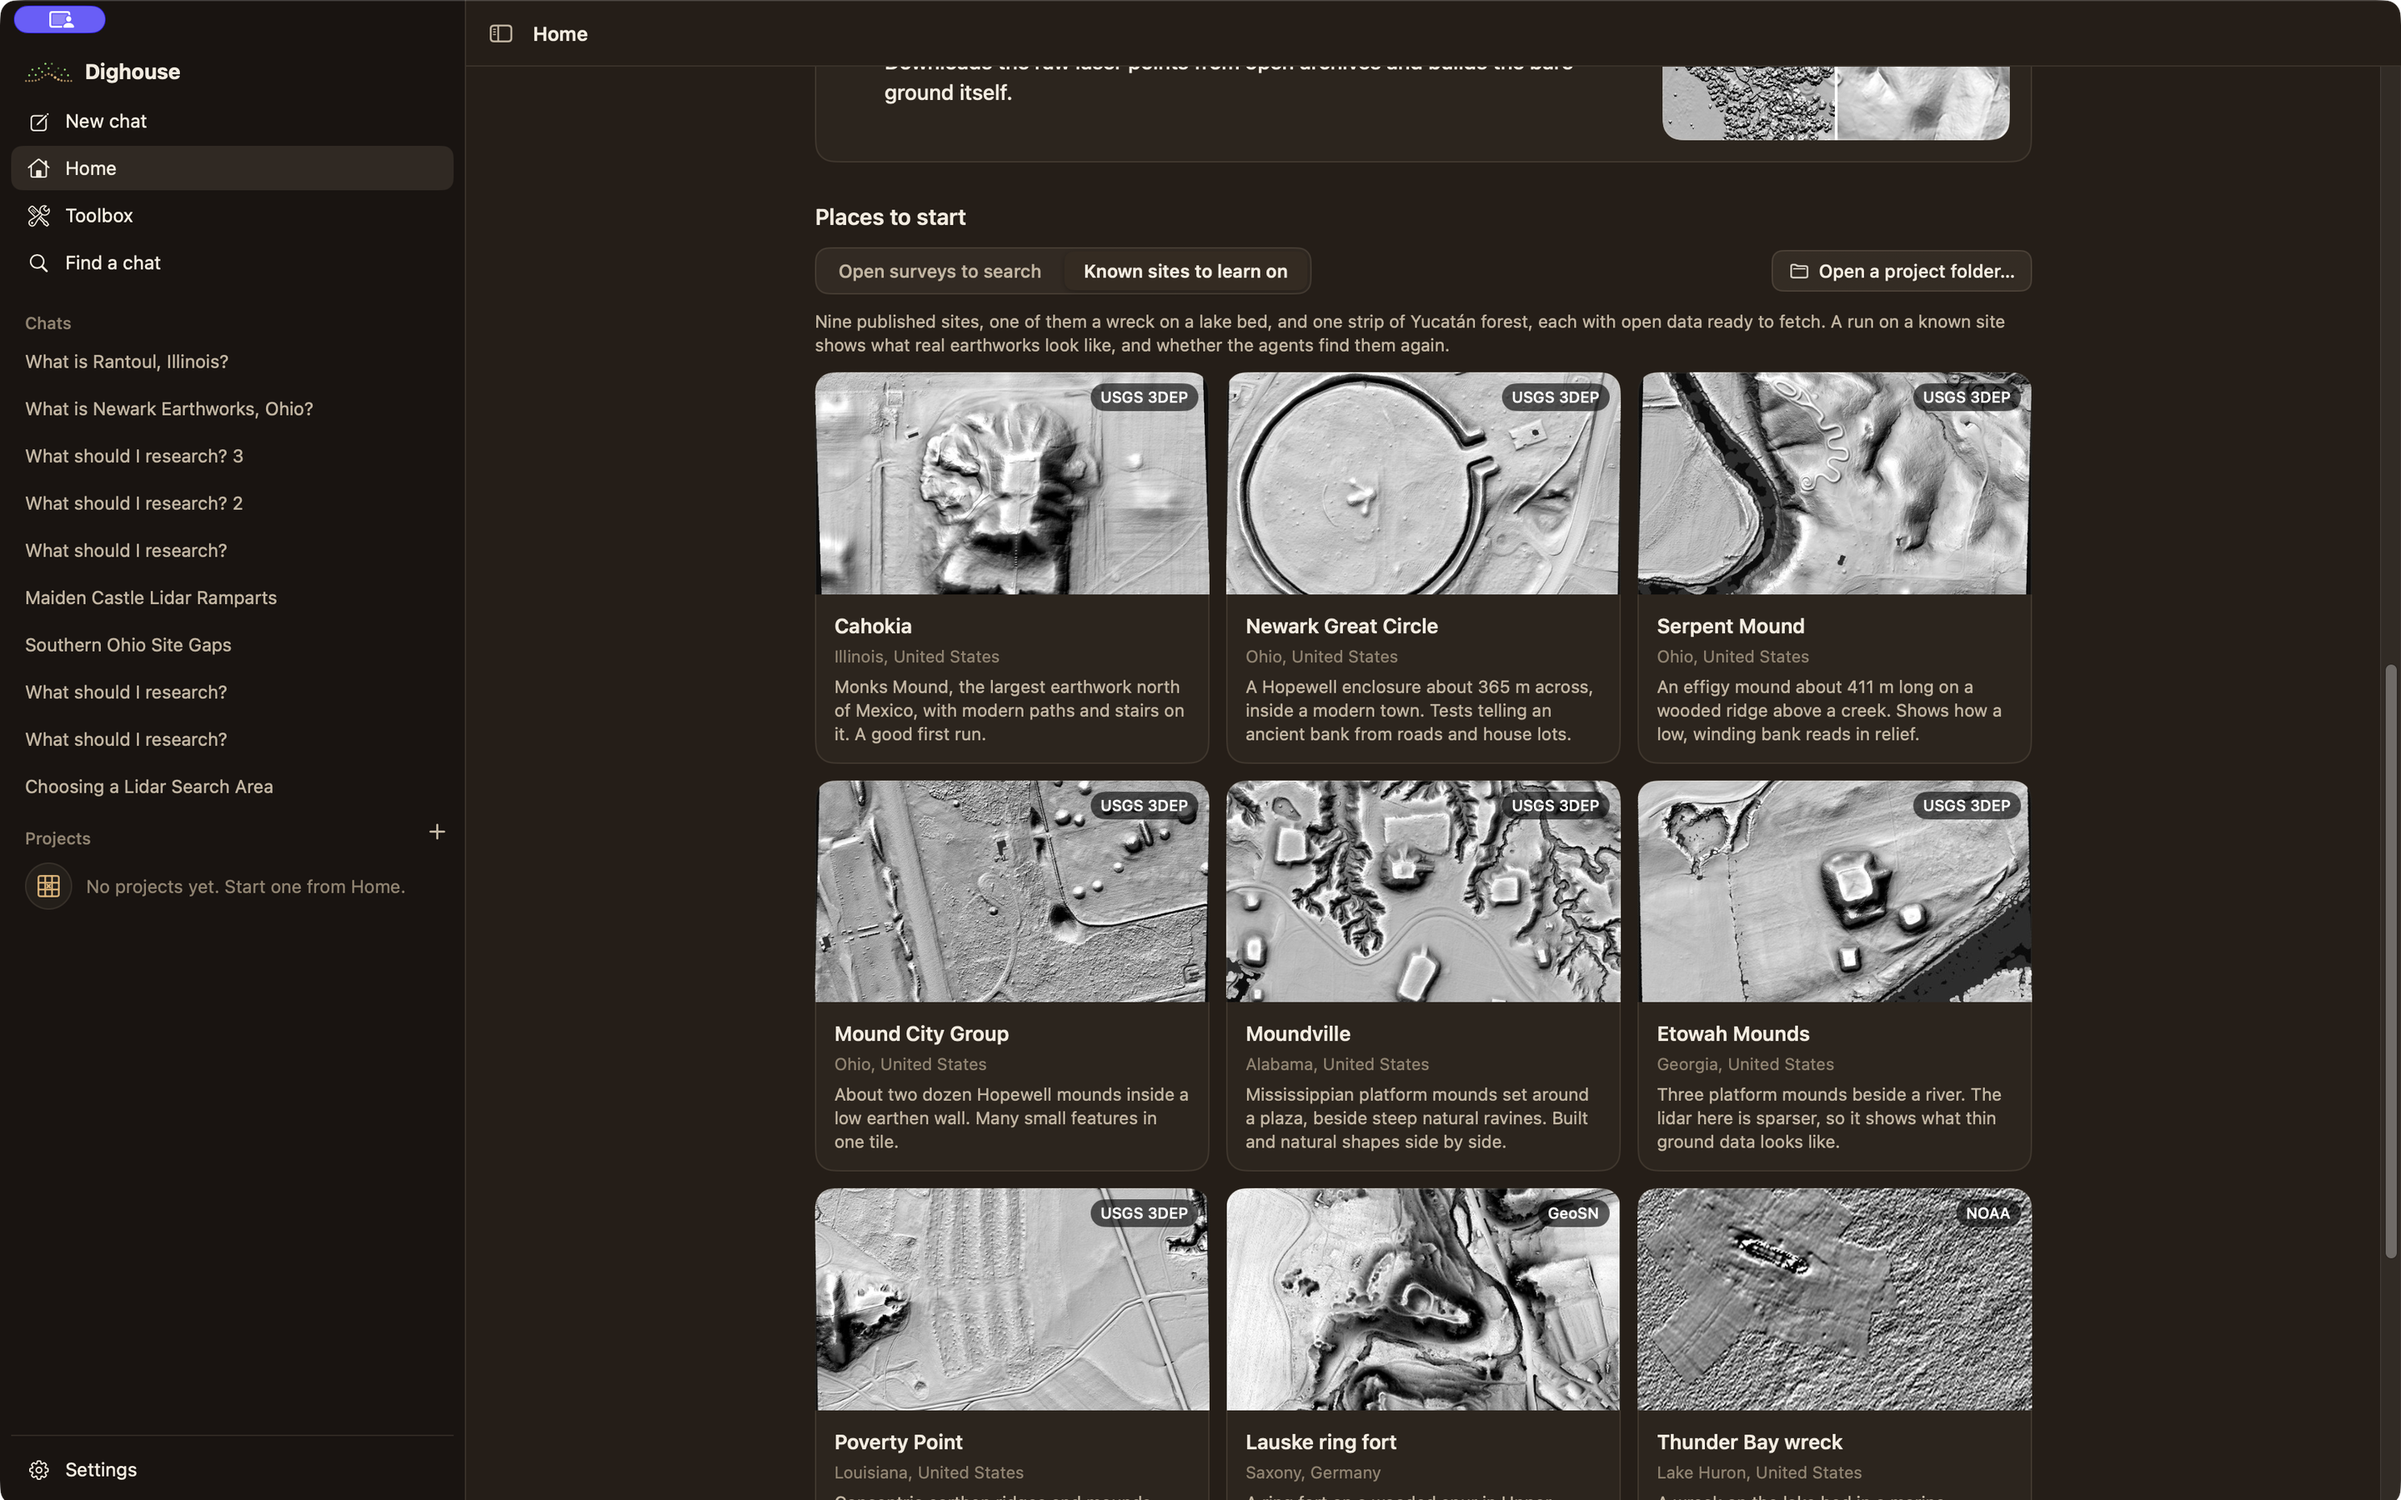
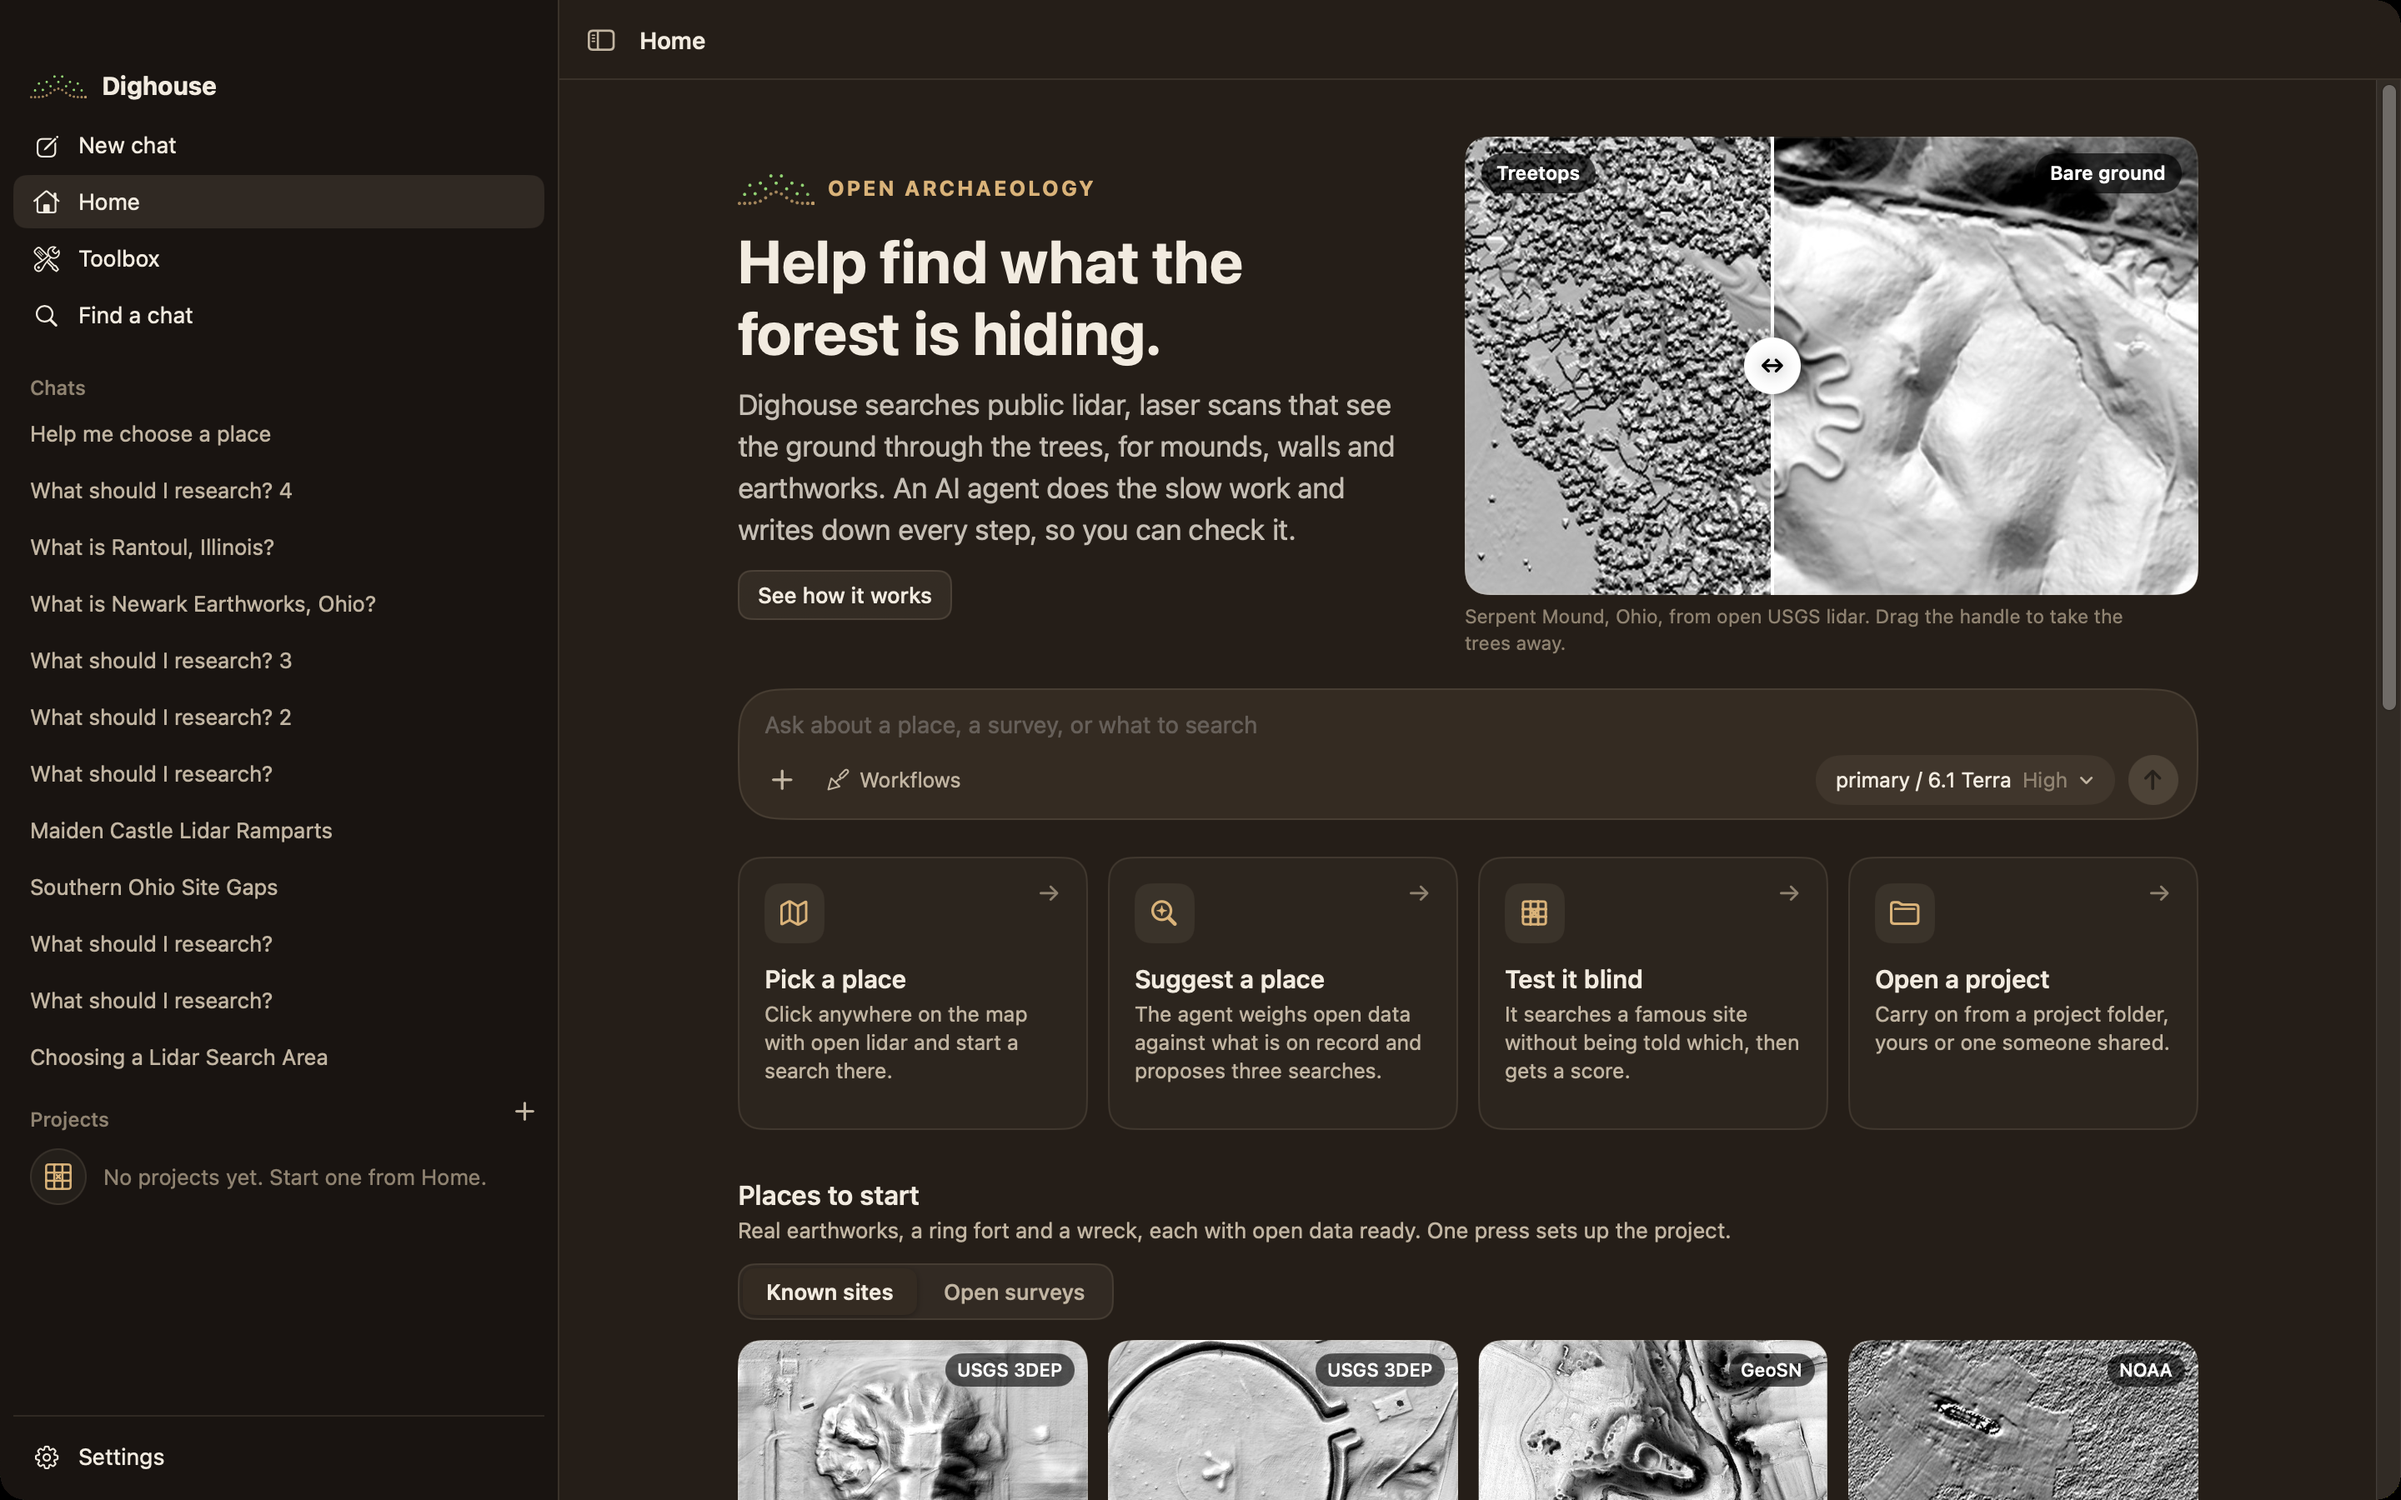
Retake the Home and New project README pictures; New project opens on the US and Europe together (#74)

diff --git a/app/Sources/Dighouse/NewProjectView.swift b/app/Sources/Dighouse/NewProjectView.swift
@@ -60,14 +60,22 @@ struct NewProjectView: View {
             _span = State(initialValue: look[2])
         } else {
             _size = State(initialValue: 0.6)
-            _camera = State(initialValue: Self.region(lat: 25, lon: -40, span: 110))
-            _span = State(initialValue: 110)
+            // Wide enough to show the United States and Europe together, even in a narrow window.
+            _camera = State(initialValue: Self.world)
+            _span = State(initialValue: 100)
         }
     }
 
     /// Zoomed out past this, a click zooms in on the spot; closer in, a click places the search area.
     private static let wide = 1.5
     private var zoomedOut: Bool { span > Self.wide }
+
+    /// From the western United States to eastern Europe, fitted to the map's width: where most of the open lidar is.
+    private static let world: MapCameraPosition = {
+        let a = MKMapPoint(CLLocationCoordinate2D(latitude: 62, longitude: -128))
+        let b = MKMapPoint(CLLocationCoordinate2D(latitude: 12, longitude: 32))
+        return .rect(MKMapRect(x: min(a.x, b.x), y: min(a.y, b.y), width: abs(b.x - a.x), height: abs(b.y - a.y)))
+    }()
 
     private static func region(lat: Double, lon: Double, span: Double) -> MapCameraPosition {
         .region(MKCoordinateRegion(center: CLLocationCoordinate2D(latitude: lat, longitude: lon),
@@ -341,7 +349,7 @@ struct NewProjectView: View {
                     Text("No open data Dighouse reads covers this spot. Try one of the shaded areas, or add your own ground model to a project later.")
                         .font(.system(size: 12.5 * Theme.scale)).foregroundStyle(Theme.amber).fixedSize(horizontal: false, vertical: true)
                     Button("Show where there is data") {
-                        withAnimation(.easeInOut(duration: 0.6)) { camera = Self.region(lat: 35, lon: -30, span: 100) }
+                        withAnimation(.easeInOut(duration: 0.6)) { camera = Self.world }
                         span = 100
                     }
                     .buttonStyle(SecondaryButton())

diff --git a/README.md b/README.md
@@ -122,8 +122,8 @@ Take the stages one at a time, or press **Find and report back** and the agent c
 
 <table>
   <tr>
-    <td width="50%"><img src="docs/images/home.png" alt="Home, Places to start: known sites to learn on, from Cahokia and Newark in the United States to the Lauske ring fort in Saxony and a Thunder Bay wreck from NOAA sonar"><br><sub><b>Home.</b> Places to start, each ready to fetch: mounds and enclosures in the United States, a ring fort in Saxony and a wreck on the bed of Lake Huron.</sub></td>
-    <td width="50%"><img src="docs/images/new-project.png" alt="New project at Mound City Group: name, question, a search area drawn on the map, and the open lidar that covers it"><br><sub><b>New project.</b> Place the area on the map and see which open lidar covers it before you start.</sub></td>
+    <td width="50%"><img src="docs/images/home.png" alt="Home: the headline beside a slider that takes the trees off Serpent Mound, the message box, four ways in (Pick a place, Suggest a place, Test it blind, Open a project) and the start of Places to start"><br><sub><b>Home.</b> Four ways in, and known sites ready to fetch right below them.</sub></td>
+    <td width="50%"><img src="docs/images/new-project.png" alt="New project on a world map shaded where open lidar reaches: the United States, Canada, Europe, and dots for surveys flown for archaeology, with a legend"><br><sub><b>New project.</b> The shaded areas have open lidar. Click to zoom in, click again to place the area, and see which surveys cover it.</sub></td>
   </tr>
   <tr>
     <td width="50%"><img src="docs/images/maiden-castle.png" alt="Maiden Castle in England from Environment Agency lidar: the project overview with what happens next beside the tiled map of the ramparts and five finds"><br><sub><b>A project.</b> Maiden Castle from England's 1 m ground model. The card at the top says what the agent does next, why, and what follows.</sub></td>

diff --git a/docs/HANDOFF.md b/docs/HANDOFF.md
@@ -57,6 +57,8 @@ Chris could not see where to start: the Home cards, the Toolbox's coverage map a
 
 Chris found Home long and the copy weak ("You decide what each one is"), and the places to start were missed at the bottom. Home is now: the hero with two plain sentences; four ways in on one row (Pick a place, Suggest a place, Test it blind, Open a project); Places to start right below, four known sites (Cahokia, Newark, Lauske, Thunder Bay) with Show all, and Open surveys as the second tab; Where you can search; How it works. "Why not just ask ChatGPT?" is gone from Home.
 
+- README pictures of Home and New project retaken on 2026-11-19 at 1440 x 900 in Earth, in the test copy with no projects (-projects <5b5d> -tutorialDone YES), the Computer Use indicator painted over. New project now opens on the United States and Europe together (an MKMapRect fitted to the width; a region fitted only the height).
+
 ## What loop 8 added (2026-11-16)
 
 - **P1, own folder.** Every way of starting a project makes a new folder in `~/Dighouse` (`projects_home()`, `new_folder()` in project.py) with git and a first commit. A taken name gets -2, -3. The engine starts the tool server with a filtered environment, so the folders reach it through `mcp_servers.dighouse.env` in `Engine.swift`.
